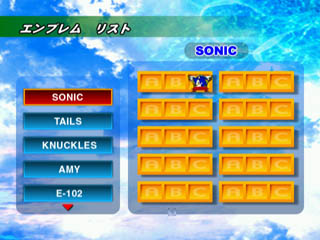
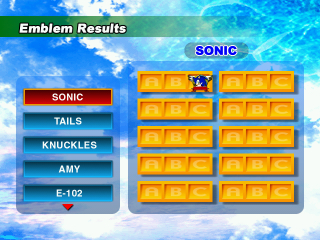
sonicadv_int initial translation done

diff --git a/japan.html b/japan.html
@@ -8,11 +8,11 @@
 <h1 align="center">Translated Japanese Sonic Sites</h1>
 <a href="japan/sonic3d" target="_top"><img style="display: block; margin-left: auto; margin-right: auto;" src="jpimgs/sonic3d.png" width="320" height="200" alt="Sonic 3D: Flickies' Island"></a>
 <a href="japan/sonicjam" target="_top"><img style="display: block; margin-left: auto; margin-right: auto;" src="jpimgs/sonicjam.png" width="320" height="200" alt="Sonic Jam"></a>
-<!--<a href="japan/sonicr" target="_top"><img style="display: block; margin-left: auto; margin-right: auto;" src="jpimgs/sonicr.png" width="320" height="200" alt="Sonic R"></a>
-<a href="japan/sonicadv" target="_top"><img style="display: block; margin-left: auto; margin-right: auto;" src="jpimgs/sonicadv.png" width="320" height="200" alt="Sonic Adventure"></a>
+<!--<a href="japan/sonicr" target="_top"><img style="display: block; margin-left: auto; margin-right: auto;" src="jpimgs/sonicr.png" width="320" height="200" alt="Sonic R"></a>-->
+<!--<a href="japan/sonicadv" target="_top"><img style="display: block; margin-left: auto; margin-right: auto;" src="jpimgs/sonicadv.png" width="320" height="200" alt="Sonic Adventure"></a>-->
 <a href="japan/sonicadv_int" target="_top"><img style="display: block; margin-left: auto; margin-right: auto;" src="jpimgs/sonicadv_int.png" width="320" height="200" alt="Sonic Adventure International"></a>
-<a href="japan/sonicadv2" target="_top"><img style="display: block; margin-left: auto; margin-right: auto;" src="jpimgs/sonicadv2.png" width="320" height="200" alt="Sonic Adventure 2"></a>
-<a href="japan/advance" target="_top"><img style="display: block; margin-left: auto; margin-right: auto;" src="jpimgs/advance.png" width="320" height="200" alt="Sonic Advance"></a>-->
+<!--<a href="japan/sonicadv2" target="_top"><img style="display: block; margin-left: auto; margin-right: auto;" src="jpimgs/sonicadv2.png" width="320" height="200" alt="Sonic Adventure 2"></a>
+<!--<a href="japan/advance" target="_top"><img style="display: block; margin-left: auto; margin-right: auto;" src="jpimgs/advance.png" width="320" height="200" alt="Sonic Advance"></a>-->
 <h2 align="center">Credits</h2>
 <p align="center">Translation: KrazeeTobi
 <br>Text Revision: KrazeeTobi
